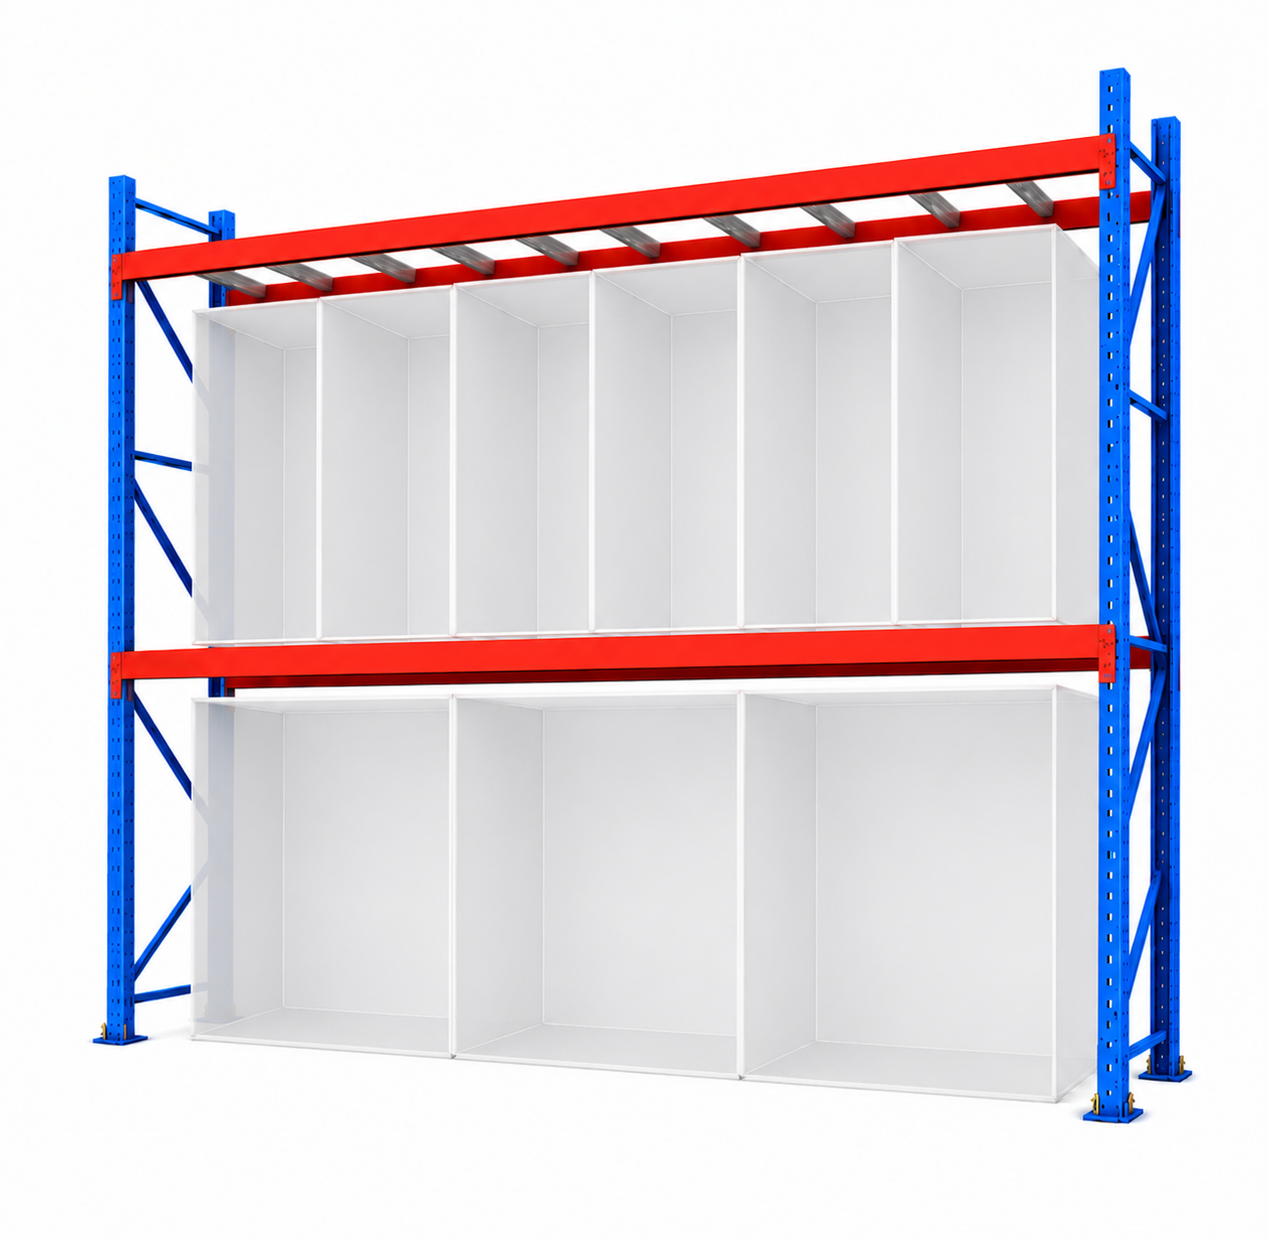
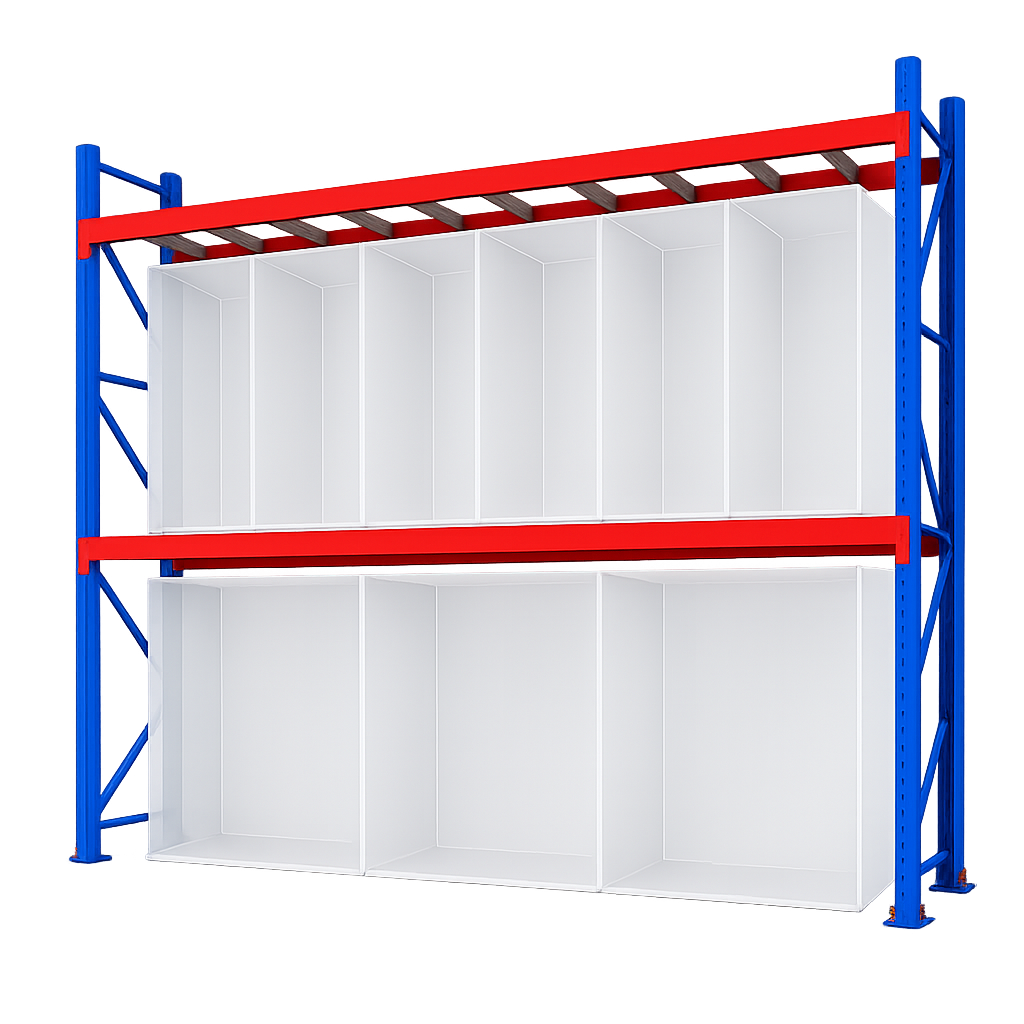
modificacion layout

Changed region(s): [[0.0625, 0.0312, 0.9688, 0.9062], [0.5625, 0.8438, 0.5938, 0.875]]

diff --git a/dashboard/src/features/warehouse3d/layout/warehouseLayout.ts b/dashboard/src/features/warehouse3d/layout/warehouseLayout.ts
@@ -17,6 +17,15 @@ export const RACK_LEVELS = [0, 10, 20, 30, 40] as const satisfies RackLevel[]
 export const VISIBLE_RACK_LEVELS: readonly RackLevel[] = [0]
 
 export const LOCATIONS_PER_BAY = 3
+export const EXCLUDED_LOCATION_RANGES = [
+  { start: 55, end: 60 },
+  { start: 115, end: 120 },
+] as const
+
+export const isLocationExcluded = (location: number) =>
+  EXCLUDED_LOCATION_RANGES.some(
+    ({ start, end }) => location >= start && location <= end,
+  )
 
 export const LOCATION_WIDTH = 0.85
 export const LOCATION_DEPTH = 0.95
@@ -119,26 +128,57 @@ export const buildWarehouseAisles = (): WarehouseAisleConfig[] =>
     return { aisle, faces }
   })
 
+export const getLocationPairIndex = (location: number) => Math.floor((location - 1) / 2)
+
 export const getFaceLocations = (
   face: Pick<RackFaceConfig, 'side' | 'startLocation' | 'endLocation'>,
 ) =>
   Array.from(
     { length: face.endLocation - face.startLocation + 1 },
     (_, locationOffset) => face.startLocation + locationOffset,
-  ).filter((location) =>
-    face.side === 'PAR' ? location % 2 === 0 : location % 2 !== 0,
-  )
+  ).filter((location) => {
+    const matchesSide = face.side === 'PAR' ? location % 2 === 0 : location % 2 !== 0
 
-const getFaceLocationIndex = (
+    return matchesSide && !isLocationExcluded(location)
+  })
+
+const getFirstPhysicalFaceLocation = (
+  face: Pick<RackFaceConfig, 'side' | 'startLocation' | 'endLocation'>,
+) => {
+  const startMatchesSide =
+    face.side === 'PAR'
+      ? face.startLocation % 2 === 0
+      : face.startLocation % 2 !== 0
+
+  return startMatchesSide ? face.startLocation : face.startLocation + 1
+}
+
+const getPhysicalFaceLocationIndex = (
   face: Pick<RackFaceConfig, 'side' | 'startLocation' | 'endLocation'>,
   location: number,
-) => getFaceLocations(face).indexOf(location)
+) => {
+  const matchesSide = face.side === 'PAR' ? location % 2 === 0 : location % 2 !== 0
+
+  if (
+    !matchesSide ||
+    isLocationExcluded(location) ||
+    location < face.startLocation ||
+    location > face.endLocation
+  ) {
+    return -1
+  }
+
+  return (
+    getLocationPairIndex(location) -
+    getLocationPairIndex(getFirstPhysicalFaceLocation(face))
+  )
+}
 
 export const getBayIndexForFaceLocation = (
   face: Pick<RackFaceConfig, 'side' | 'startLocation' | 'endLocation'>,
   location: number,
 ) => {
-  const faceLocationIndex = getFaceLocationIndex(face, location)
+  const faceLocationIndex = getPhysicalFaceLocationIndex(face, location)
 
   return faceLocationIndex < 0
     ? -1
@@ -149,7 +189,7 @@ export const getPositionInsideBayForFaceLocation = (
   face: Pick<RackFaceConfig, 'side' | 'startLocation' | 'endLocation'>,
   location: number,
 ) => {
-  const faceLocationIndex = getFaceLocationIndex(face, location)
+  const faceLocationIndex = getPhysicalFaceLocationIndex(face, location)
 
   return faceLocationIndex < 0
     ? -1
@@ -164,8 +204,6 @@ export const getRackX = (aisle: number, side: RackSide) => {
   const sideSign = side === 'IMPAR' ? -1 : 1
   return getStreetX(aisle) + sideSign * (AISLE_WIDTH / 2 + RACK_DEPTH / 2)
 }
-
-export const getLocationPairIndex = (location: number) => Math.floor((location - 1) / 2)
 
 export const getLocationZ = (location: number) => {
   const pairIndex = getLocationPairIndex(location)
@@ -238,25 +276,26 @@ export const buildRackLocations = (faces: RackFace[] = buildRackFaces()): RackLo
   )
 
 const getBayRanges = (face: RackFace) => {
-  const ranges: Array<{ startLocation: number; endLocation: number }> = []
-  const locations = getFaceLocations(face)
+  const locationsByBay = new Map<number, number[]>()
 
-  for (let index = 0; index < locations.length; index += LOCATIONS_PER_BAY) {
-    const bayLocations = locations.slice(index, index + LOCATIONS_PER_BAY)
+  getFaceLocations(face).forEach((location) => {
+    const bayIndex = getBayIndexForFaceLocation(face, location)
+    const bayLocations = locationsByBay.get(bayIndex) ?? []
+    bayLocations.push(location)
+    locationsByBay.set(bayIndex, bayLocations)
+  })
 
-    ranges.push({
-      startLocation: bayLocations[0],
-      endLocation: bayLocations[bayLocations.length - 1],
-    })
-  }
-
-  return ranges
+  return Array.from(locationsByBay.entries()).map(([bayIndex, locations]) => ({
+    bayIndex,
+    startLocation: locations[0],
+    endLocation: locations[locations.length - 1],
+  }))
 }
 
 export const buildRackBays = (faces: RackFace[] = buildRackFaces()): RackBay[] =>
   faces.flatMap((face) =>
-    getBayRanges(face).map((bay, index) => {
-      const bayIndex = index + 1
+    getBayRanges(face).map((bay) => {
+      const bayIndex = bay.bayIndex
       const zStart = getLocationZ(bay.startLocation) - LOCATION_WIDTH / 2
       const zEnd = getLocationZ(bay.endLocation) + LOCATION_WIDTH / 2
 
@@ -506,6 +545,56 @@ export const validateWarehouseLayout = () => {
     errors.push('Layout invalido: P20 PAR debe empezar en 20-002-00.')
   }
 
+  if (WAREHOUSE_LOCATIONS.some(({ location }) => isLocationExcluded(location))) {
+    errors.push('Layout invalido: existen ubicaciones dentro de los rangos excluidos.')
+  }
+
+  if (
+    WAREHOUSE_LOCATIONS.some(({ location, side }) =>
+      side === 'PAR' ? location % 2 !== 0 : location % 2 === 0,
+    )
+  ) {
+    errors.push('Layout invalido: la paridad de alguna ubicacion no coincide con su lado.')
+  }
+
+  const requiredLocations: Array<[number, RackSide, number]> = [
+    [8, 'IMPAR', 53],
+    [8, 'PAR', 54],
+    [8, 'IMPAR', 61],
+    [8, 'PAR', 62],
+    [8, 'IMPAR', 113],
+    [8, 'PAR', 114],
+  ]
+  const forbiddenLocations: Array<[number, RackSide, number]> = [
+    [8, 'IMPAR', 55],
+    [8, 'PAR', 56],
+    [8, 'IMPAR', 115],
+    [8, 'PAR', 116],
+  ]
+
+  if (requiredLocations.some(([aisle, side, location]) => !hasLocation(aisle, side, location))) {
+    errors.push('Layout invalido: faltan ubicaciones limite junto a los huecos transversales.')
+  }
+
+  if (forbiddenLocations.some(([aisle, side, location]) => hasLocation(aisle, side, location))) {
+    errors.push('Layout invalido: existen ubicaciones dentro de un pasillo transversal.')
+  }
+
+  const normalLocationStep = getLocationZ(53) - getLocationZ(51)
+  const transverseGap = getLocationZ(61) - getLocationZ(53)
+
+  if (getLocationZ(53) >= getLocationZ(61) || transverseGap <= normalLocationStep * 3) {
+    errors.push('Layout invalido: no se conserva el hueco fisico entre U053/U054 y U061/U062.')
+  }
+
+  if (
+    WAREHOUSE_BAYS.some(
+      (bay) => isLocationExcluded(bay.startLocation) || isLocationExcluded(bay.endLocation),
+    )
+  ) {
+    errors.push('Layout invalido: se ha generado estructura de rack en un vano excluido.')
+  }
+
   const zoneACount = WAREHOUSE_LOCATIONS.filter(
     (location) => location.zoneId === 'zone-a',
   ).length
@@ -513,8 +602,8 @@ export const validateWarehouseLayout = () => {
     (location) => location.zoneId === 'zone-b',
   ).length
 
-  if (zoneACount !== 1092 || zoneBCount !== 720 || WAREHOUSE_LOCATIONS.length !== 1812) {
-    errors.push('Layout invalido: los totales H00 deben ser 1092 + 720 = 1812.')
+  if (zoneACount !== 936 || zoneBCount !== 648 || WAREHOUSE_LOCATIONS.length !== 1584) {
+    errors.push('Layout invalido: los totales H00 deben ser 936 + 648 = 1584.')
   }
 
   errors.forEach((error) => console.error(error))